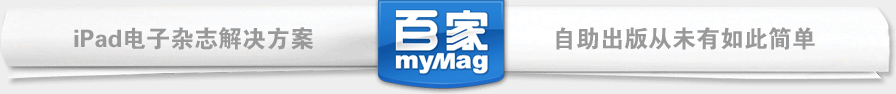
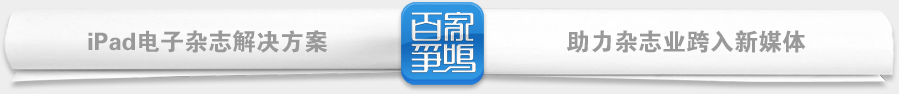
just backup

diff --git a/index.html b/index.html
@@ -8,7 +8,6 @@
 	<!--[if lte IE 8]>
 		<link rel="stylesheet" href="assets/css/fuckie.css" />
 	<![endif]-->
-	
 	<script type="text/javascript" src="assets/js/jquery-1.6.min.js"></script>
 	<script type="text/javascript" src="assets/js/banner.js"></script>
 </head>
@@ -62,18 +61,18 @@
 				<p class="slogan clearfix">iPad电子杂志解决方案，自助出版从未有如此简单</p>
 				<div class="desc clearfix">
 					<div id="app-desc">
-						<h3><a target="_blank" href="http://blog.mycolorway.com/2010/11/29/mymag-release/">品牌App定制</a></h3>
-						<span>为您设计自有品牌与外观，定制特殊功能的iPad杂志App</span><br />
-						<a class="more" target="_blank" href="http://blog.mycolorway.com/2010/11/29/mymag-release/">案例与客户</a>
+						<a target="_blank" href="http://mag.mycolorway.com" title="去百家介绍页面">
+							<img src="assets/img/mag-brand.png" width="157" height="247" />
+						</a>
 					</div>
 					<div id="v-desc">
-						<img width="195" height="152" onclick="document.getElementById('v-show-mag').style.display='block'" src="assets/img/lifeweekly-v.png" alt="三联生活周刊iPad演示视频" />
-						<a class="v-link" onclick="document.getElementById('v-show-mag').style.display='block'" href="javascript:void(0)"></a>
+						<img width="512" height="247" onclick="document.getElementById('v-show-mag').style.display='block'" src="assets/img/mag-video.png" alt="百家出版解决方案演示视频" />
+						<a class="v-link" onclick="document.getElementById('v-show-mag').style.display='block'" href="javascript:void(0)" title="观看百家演示视频"></a>
 					</div>
 					<div id="mymag-desc">
-						<h3><a href="http://mag.mycolorway.com/" target="_blank">“百家争鸣”iPad杂志解决方案</a></h3>
-						<span>上传、编辑、管理和发布自己iPad杂志中的内容，包括增加各种导航和交互</span><br />
-						<a class="more" href="http://mag.mycolorway.com/" target="_blank">登录百家</a>
+						<a href="http://mag.mycolorway.com/" target="_blank" title="去百家介绍页面">
+							<img src="assets/img/mag-zhengming.png" width="147" height="247" />
+						</a>
 					</div>
 				</div>
 				<div class="app-li">
@@ -89,11 +88,11 @@
 				</div>
 				<div class="client-li clearfix">
 					<ul>
-						<li><a href="http://www.10086.cn/aboutus/index_4458.htm" target="_blank"><img src="assets/img/clients/cmcc.png" alt="中国移动" /></a></li>
-						<li><a href="http://www.asiainfo-linkage.com.cn/" target="_blank"><img src="assets/img/clients/ai.png" alt="Asiainfo" /></a></li>
 						<li><a href="http://www.longfor.com/" target="_blank"><img src="assets/img/clients/longhu.png" alt="龙湖地产" /></a></li>
 						<li><a href="http://www.vanke.com/" target="_blank"><img src="assets/img/clients/wanke.png" alt="万科" /></a></li>
 						<li><a href="http://www.tinman.cn/" target="_blank"><img src="assets/img/clients/ta.png" alt="TINMAN ARTS" /></a></li>
+						<li><a href="http://www.milk.com.hk/" target="_blank"><img src="assets/img/clients/milk.png" alt="Milk" /></a></li>
+						<li><a href="http://www.genomics.cn/" target="_blank"><img src="assets/img/clients/hdjy.png" alt="华大基因" /></a></li>
 					</ul>
 				</div>
 			</div>
@@ -101,7 +100,7 @@
 			<div class="hr"><hr></hr></div>
 			
 			<div class="other-box">
-				<h2>为个人设计移动互联应用</h2>
+				<h2>更多精彩，伴你一程</h2>
 				<div class="desc clearfix">
 					<div id="ch-run">
 						<h3>《小鸡快跑》系列动画书</h3>
@@ -109,14 +108,14 @@
 						<a href="http://bit.ly/chickensrun" target="_blank"><img width="200" height="150" src="assets/img/other-app-desc.png" alt="小鸡快跑" /></a>
 					</div>
 					<div id="news-v">
-						<h3>最新应用</h3>
-						<span>让有性格的信息，找到有性格的人</span><br />
-                        <a href="http://bit.ly/blueweekly" target="_blank"><img width="200" height="150" src="assets/img/other-app-desc2.png" alt="蓝图周刊" /></a>
+						<h3>即将推出《Milk》</h3>
+						<span>香港最酷的潮品杂志，基于百家出版平台</span><br />
+                        <img width="200" height="150" src="assets/img/other-app-desc2.png" alt="蓝图周刊" />
 					</div>
 					<div id="blueprint">
-						<h3>即将推出《门神的故事》</h3>
-						<span>用最欢乐的方式，触摸中国传统故事</span><br />
-						<img width="200" height="150" src="assets/img/other-app-desc3.png" alt="门神的故事" />
+						<h3>TeamCola，即将登场</h3>
+						<span>可能是目前最好的团队日志工具</span><br />
+						<a href="http://teamcola.com" target="_blank"><img width="200" height="150" src="assets/img/other-app-desc3.png" alt="门神的故事" /></a>
 					</div>
 				</div>
 			</div>

diff --git a/assets/js/slide.js b/assets/js/slide.js
@@ -1,0 +1,82 @@
+function init(){
+var glide = new function(){
+	function $id(id){return document.getElementById(id);};
+	this.layerGlide=function(auto,oEventCont,oSlider,sSingleSize,second,fSpeed,point){
+		var oSubLi = $id(oEventCont).getElementsByTagName('li');
+		var theSlide = $id(oSlider).parentNode;
+		var interval,timeout,oslideRange;
+		var time=1; 
+		var speed = fSpeed 
+		var sum = oSubLi.length;
+		var a=0;
+		var delay=second * 1000; 
+		var setValLeft=function(s){
+			return function(){
+				oslideRange = Math.abs(parseInt($id(oSlider).style[point]));	
+				$id(oSlider).style[point] =-Math.floor(oslideRange+(parseInt(s*sSingleSize) - oslideRange)*speed) +'px';		
+				if(oslideRange==[(sSingleSize * s)]){
+					clearInterval(interval);
+					a=s;
+				}
+			}
+		};
+		var setValRight=function(s){
+			return function(){	 	
+				oslideRange = Math.abs(parseInt($id(oSlider).style[point]));							
+				$id(oSlider).style[point] =-Math.ceil(oslideRange+(parseInt(s*sSingleSize) - oslideRange)*speed) +'px';
+				if(oslideRange==[(sSingleSize * s)]){
+					clearInterval(interval);
+					a=s;
+				}
+			}
+		}
+		
+		function autoGlide(){
+			for(var c=0;c<sum;c++){oSubLi[c].className='';};
+			clearTimeout(interval);
+			if(a==(parseInt(sum)-1)){
+				for(var c=0;c<sum;c++){oSubLi[c].className='';};
+				a=0;
+				oSubLi[a].className="cur";
+				interval = setInterval(setValLeft(a),time);
+				timeout = setTimeout(autoGlide,delay);
+			}else{
+				a++;
+				oSubLi[a].className="cur";
+				interval = setInterval(setValRight(a),time);	
+				timeout = setTimeout(autoGlide,delay);
+			}
+		}
+	
+		if(auto){timeout = setTimeout(autoGlide,delay);};
+		for(var i=0;i<sum;i++){	
+			oSubLi[i].onmouseover = (function(i){
+				return function(){
+					for(var c=0;c<sum;c++){oSubLi[c].className='';};
+					clearTimeout(timeout);
+					clearInterval(interval);
+					oSubLi[i].className="cur";
+					if(Math.abs(parseInt($id(oSlider).style[point]))>[(sSingleSize * i)]){
+						interval = setInterval(setValLeft(i),time);
+						this.onmouseout=function(){if(auto){timeout = setTimeout(autoGlide,delay);};};
+					}else if(Math.abs(parseInt($id(oSlider).style[point]))<[(sSingleSize * i)]){
+							interval = setInterval(setValRight(i),time);
+						this.onmouseout=function(){if(auto){timeout = setTimeout(autoGlide,delay);};};
+					}
+				}
+			})(i);
+		}
+		theSlide.onmouseover = function(e){
+			clearTimeout(timeout);
+		}
+		theSlide.onmouseout = function(e){
+			clearTimeout(timeout);
+			if(auto){timeout = setTimeout(autoGlide,delay);};
+		}
+	}
+}
+
+glide.layerGlide(true,'ctrl','player',960,4,0.02,'left');
+
+}
+window.onload = init;

diff --git a/assets/css/default.css b/assets/css/default.css
@@ -110,13 +110,12 @@ h2 {
 	height: 36px; width: 960px; margin-top: 434px;
 	background: url(../img/hr.png) no-repeat center;
 	text-align: center;
-	cursor: default;
 }
 	.slide #ctrl li {
 		display: inline-block;
 		width: 10px; height: 10px; margin: 0 5px;
 		color: #ccc; font-size: 20px; text-shadow: 0 -1px 0 #999;
-		cursor: default;
+		
 	}
 	.slide #ctrl li.cur {
 		color: #5399df; text-shadow: 0 -1px 0 #666;
@@ -139,49 +138,29 @@ h2 {
 .mymag-box .desc {
 	width: 960px; padding-left: 60px;
 }
-	.mymag-box #app-desc,
-	.mymag-box #mymag-desc,
-	.mymag-box #v-desc {
+	.mymag-box #app-desc {
 		float: left;
-		width: 240px; padding: 20px 0 50px;
+		width:157px;
+	}
+	.mymag-box #mymag-desc {
+		float: left;
+		width:147px;
+	}
+	.mymag-box #mymag-desc a:hover,
+	.mymag-box #app-desc a:hover {
+		opacity:.8;
 	}
 	.mymag-box #v-desc {
-		width: 260px; padding: 15px 0 0;
+		float: left;
+		width: 512px; padding: 15px 0 30px;
 		text-align: center;
 	}
 	.mymag-box a.v-link {
 		display: block; position: absolute;
-		width: 159px; height: 120px; margin: -140px 0 0 51px;
+		width: 191px; height: 110px; margin: -233px 0 0 155px;
 	}
 	.mymag-box a.v-link:hover {
 		background: #fff; opacity: .5;
-	}
-	.mymag-box #app-desc {
-		padding-right: 40px;
-		background: url(../img/app-bg.png) no-repeat center right; text-align: right;
-	}
-	.mymag-box #mymag-desc {
-		padding-left: 40px;
-		background: url(../img/mag-bg.png) no-repeat center left;
-	}
-	.mymag-box .desc h3 {
-		font-size: 14px; line-height: 40px;
-	}
-	.mymag-box .desc h3 a:hover {
-		text-decoration: none;
-	}
-	.mymag-box .desc a.more {
-		padding-left: 15px;
-		line-height: 40px; color: #999;
-	}
-	.mymag-box .desc a.more:hover {
-		color: #aaa; text-decoration: none;
-	}
-	.mymag-box #app-desc a.more {
-		background: url(../img/ico-app-more.png) no-repeat center left;
-	}
-	.mymag-box #mymag-desc a.more {
-		background: url(../img/ico-mag-more.png) no-repeat center left;
 	}
 	
 .mymag-box .app-li li {

diff --git a/assets/js/banner.js b/assets/js/banner.js
@@ -37,8 +37,8 @@ function transition( index ) {
     }
     
     slides.eq( currentIndex )
-        .fadeOut( "slow" );
-    newSlide.fadeIn( "slow", function() {
+        .fadeOut( 1000 );
+    newSlide.fadeIn( 1000, function() {
         $( this ).addClass( "cur" )
             .siblings( "li" )
             .removeClass( "cur" );
